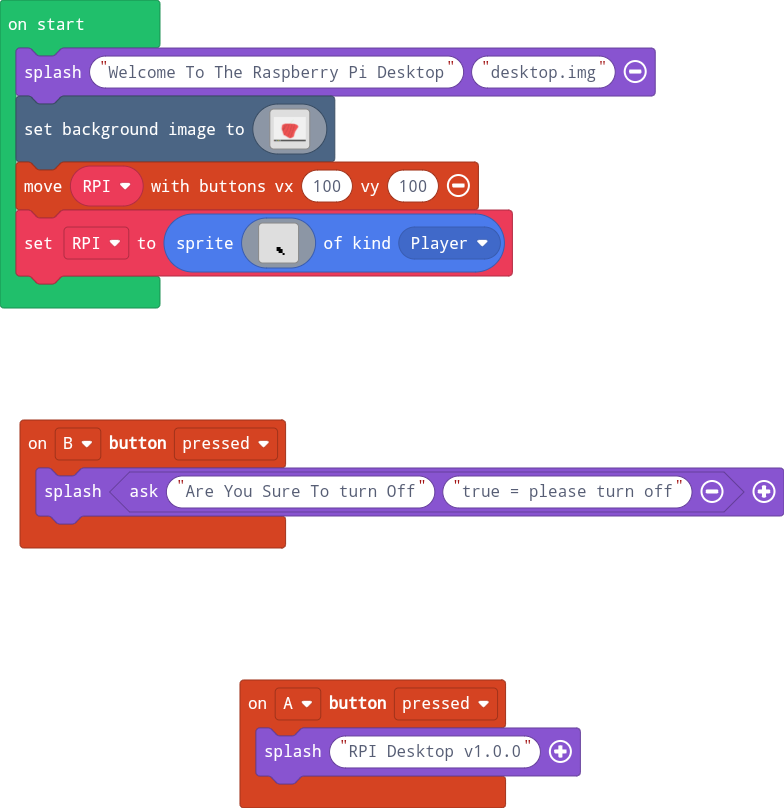
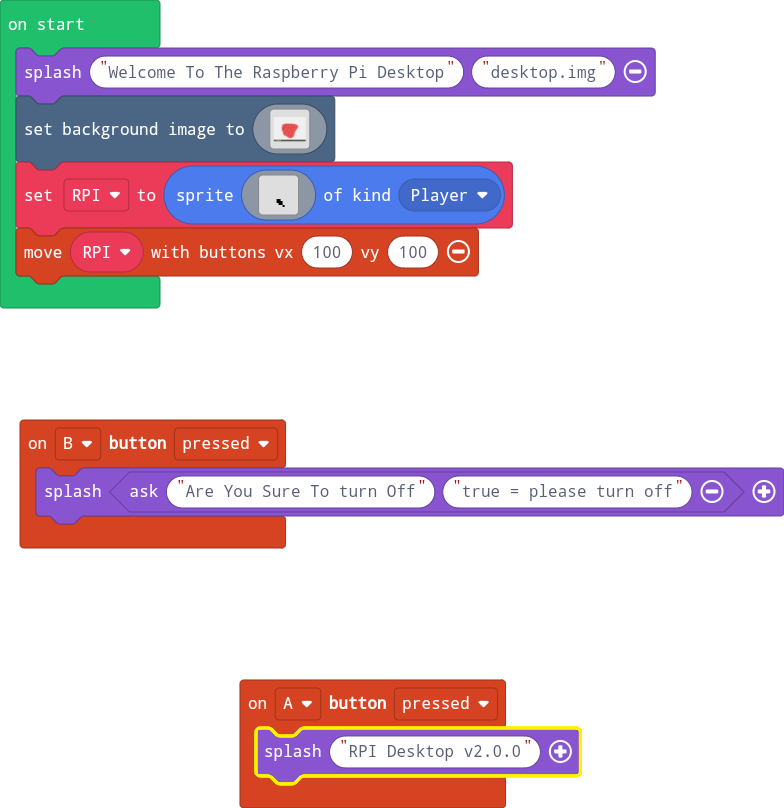
update

Changed region(s): [[0.0, 0.1856, 0.6735, 0.3713], [0.3061, 0.8973, 0.7653, 0.9592], [0.3367, 0.9592, 0.7347, 0.9901]]

diff --git a/main.ts b/main.ts
@@ -2,9 +2,8 @@ controller.B.onEvent(ControllerButtonEvent.Pressed, function () {
     game.splash(game.ask("Are You Sure To turn Off", "true = please turn off"))
 })
 controller.A.onEvent(ControllerButtonEvent.Pressed, function () {
-    game.splash("RPI Desktop v1.0.0")
+    game.splash("RPI Desktop v2.0.0")
 })
-let RPI: Sprite = null
 game.splash("Welcome To The Raspberry Pi Desktop", "desktop.img")
 scene.setBackgroundImage(img`
     1111111111111111111111111111111111111111111111111111111111111111111111111111111111111111111111111111111111111111111111111111111111111111111111111111111111111111
@@ -128,8 +127,7 @@ scene.setBackgroundImage(img`
[2 lines of base64/hex data omitted]
     `)
-controller.moveSprite(RPI, 100, 100)
-RPI = sprites.create(img`
+let RPI = sprites.create(img`
     . . . . . . . . . . . . . . . . 
     . . . . . . . . . . . . . . . . 
     . . . . . . . . . . . . . . . . 
@@ -147,3 +145,4 @@ RPI = sprites.create(img`
     . . . . . . . . . . . . . . . . 
     . . . . . . . . . . . . . . . . 
     `, SpriteKind.Player)
+controller.moveSprite(RPI, 100, 100)
